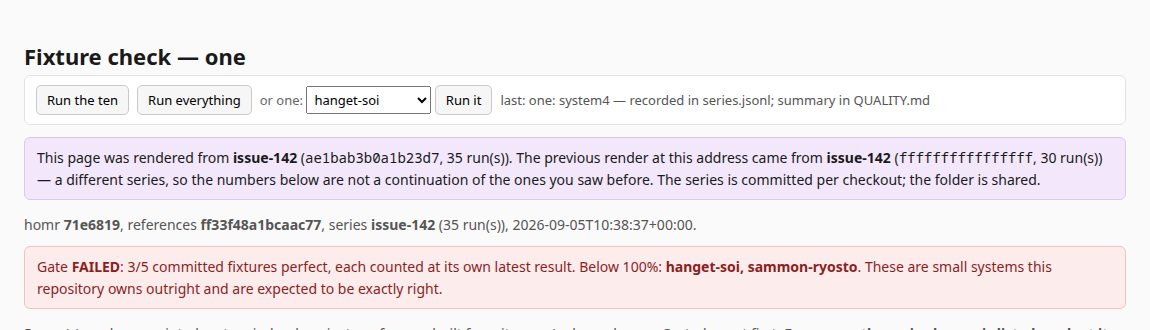
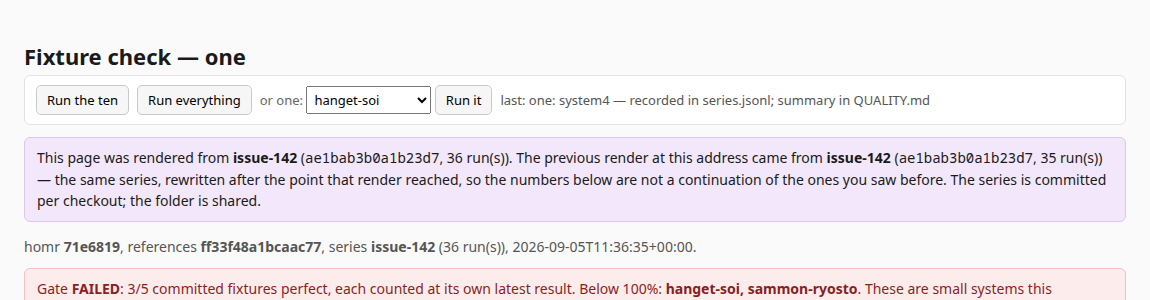
Compare the whole prefix, which is what a prefix check is
I called it a prefix check and then compared one run: the one at the previous
render's final position. `[A, B, C]` becoming `[A, X, C, D]` keeps the path,
the first run and the run at that position, so every test passed while the
middle of the history was replaced under a reader.

The marker now holds a hash over every run the render showed, and the next
render hashes the first that many runs it finds. A change anywhere inside
them fails it; an append leaves them untouched and says nothing, which is the
property that makes a banner worth reading at all.

The regression is that exact shape, with the runs written out by hand rather
than timed so `C` really is the same record both times instead of only
usually being one. Checked by sabotage: with the endpoint check put back the
test fails on `assert not series.continues(shown)`, which is the hole.

Verified live as well, both directions -- three consecutive real runs
produce no banner, and a marker whose prefix hash alone disagrees produces
one that says the history was rewritten rather than replaced.

The old endpoint fingerprint stays in the marker, read only when meeting one
written before the prefix was recorded, so an upgrade costs one render of
the weaker check rather than a rewrite nobody can evidence.

diff --git a/fixturecheck/series.py b/fixturecheck/series.py
@@ -417,9 +417,12 @@ def origin(path: Path | None = None) -> dict:
         "series_id": hashlib.sha256(f"{resolved}\0{root}".encode()).hexdigest()[:16],
         "runs": len(found),
         "last_at": found[-1].get("at", "") if found else "",
-        # The last run itself, hashed. `at` is not enough to compare a position
-        # by: it has second resolution, so two runs a moment apart carry the
-        # same stamp and a rewritten tail would slip through looking identical.
+        # **The whole history shown, hashed** — not its last run. `continues`
+        # compares this against the first `runs` runs found next time, which is
+        # what makes it a prefix check rather than an endpoint check.
+        "prefix": prefix_fingerprint(found),
+        # The last run alone, kept only so a marker written by an older version
+        # still means something for one render. Nothing new compares it.
         "last_run": run_fingerprint(found[-1]) if found else "",
     }
 
@@ -428,6 +431,19 @@ def run_fingerprint(run: dict) -> str:
     """One run, as a value — so two runs can be told apart by what they are."""
     return hashlib.sha256(
         json.dumps(run, sort_keys=True).encode()).hexdigest()[:16]
+
+
+def prefix_fingerprint(some: list[dict]) -> str:
+    """A run of history, as one value.
+
+    Every run, in order, canonically — so a change anywhere inside it changes
+    this, and appending after it does not. Fingerprinting only the last run was
+    the defect: `[A, B, C]` and `[A, X, C, D]` share their first run, their path
+    and the run at the older endpoint, so an endpoint check calls them the same
+    history while the middle of it has been replaced under a reader.
+    """
+    return hashlib.sha256(
+        json.dumps(some, sort_keys=True).encode()).hexdigest()[:16]
 
 
 def continues(previous: dict | None, path: Path | None = None) -> bool:
@@ -439,10 +455,15 @@ def continues(previous: dict | None, path: Path | None = None) -> bool:
     by every stable fingerprint, because a fingerprint that noticed would also
     change on every ordinary append.
 
-    So the question is asked as a **prefix**: the run the last render saw at its
-    own final position must still be that run. If it is not, the record was
-    rewritten under the same name, and the numbers at this address are not a
-    continuation of the ones before them however alike the labels look.
+    So the question is asked as a **prefix**, and it has to be the whole prefix.
+    Checking the run at the older endpoint is not the same thing and misses the
+    ordinary shape of a rewrite: `[A, B, C]` against `[A, X, C, D]` agrees on
+    the path, the first run and the run at that endpoint, and disagrees about
+    what happened in between. So every run the last render showed is hashed
+    together, and all of them must still be there, in order, unchanged.
+
+    An append leaves them untouched and says nothing, which is the property that
+    makes a banner worth reading.
     """
     if not previous:
         return True
@@ -454,12 +475,15 @@ def continues(previous: dict | None, path: Path | None = None) -> bool:
     here = runs(path)
     if len(here) < seen:
         return False        # shorter than what was already shown: rewritten
-    was = previous.get("last_run")
-    if not was:
-        # An older marker, written before runs were fingerprinted. Fall back to
-        # the timestamp rather than declaring a rewrite nobody can evidence.
-        return here[seen - 1].get("at", "") == previous.get("last_at", "")
-    return run_fingerprint(here[seen - 1]) == was
+    was = previous.get("prefix")
+    if was:
+        return prefix_fingerprint(here[:seen]) == was
+    # Markers written before the whole prefix was recorded. One render of the
+    # weaker check rather than a rewrite nobody can evidence; the next marker
+    # carries the prefix and this is never reached again.
+    if previous.get("last_run"):
+        return run_fingerprint(here[seen - 1]) == previous["last_run"]
+    return here[seen - 1].get("at", "") == previous.get("last_at", "")
 
 
 def identity(run: dict) -> tuple:

diff --git a/tests/test_fixturecheck_series.py b/tests/test_fixturecheck_series.py
@@ -716,6 +716,64 @@ def test_a_history_rewritten_after_the_last_render_is_seen(tmp_path, monkeypatch
     assert "rewritten after the point" in said
 
 
+def _line(path, name, at):
+    """One run written straight in, so the histories in a test are exact."""
+    return series.append(
+        {"at": at, "harness": "fixturecheck", "tier": "one", "homr": name,
+         "references": "r", "committed": ["a"],
+         "cases": {"a": {"outcome": series.READ, "perfect": True}},
+         "headline": {"right": 1, "judged": 1, "percent": 100.0}},
+        path)
+
+
+def test_a_run_changed_in_the_middle_of_the_shown_history_is_seen(tmp_path, monkeypatch):
+    """`[A, B, C]` against `[A, X, C, D]` — the shape an endpoint check misses.
+
+    Same path, same first run, and the run at the old endpoint is still `C`, so
+    every identity that is stable across appends agrees and so does a
+    fingerprint of the last run. What changed is `B`, in the middle of what a
+    reader was already shown. The check has to be over the whole prefix or it is
+    not a prefix check, whatever it is called.
+
+    The runs are written out by hand rather than timed, so `C` really is the
+    same record both times instead of only usually being one.
+    """
+    from fixturecheck import report
+
+    monkeypatch.setattr(report, "OUT", tmp_path / "report")
+    report.OUT.mkdir()
+    checkout = tmp_path / "homr" / "fixturecheck"
+    checkout.mkdir(parents=True)
+    path = checkout / "series.jsonl"
+    monkeypatch.setattr(series, "SERIES", path)
+
+    _line(path, "A", "2026-09-01T09:00:00+00:00")
+    opening = path.read_text()
+    _line(path, "B", "2026-09-02T09:00:00+00:00")
+    _line(path, "C", "2026-09-03T09:00:00+00:00")
+
+    shown = series.origin()
+    assert shown["runs"] == 3
+    assert report._series_change(shown) == ""          # [A, B, C] is what was shown
+
+    # Another history: same opening, a different middle, the *same* run at the
+    # old endpoint, and one more after it.
+    path.write_text(opening)
+    _line(path, "X", "2026-09-02T09:00:00+00:00")
+    _line(path, "C", "2026-09-03T09:00:00+00:00")
+    _line(path, "D", "2026-09-04T09:00:00+00:00")
+
+    here = series.runs(path)
+    assert len(here) == 4
+    assert here[1]["homr"] == "X"                      # the middle was replaced
+    # Everything a weaker check compares still agrees:
+    assert series.origin()["series_id"] == shown["series_id"]      # path + root
+    assert series.run_fingerprint(here[2]) == shown["last_run"]    # the endpoint
+    # ...and the history is still not the one that was shown.
+    assert not series.continues(shown)
+    assert "rewritten after the point" in report._series_change(series.origin())
+
+
 def test_an_ordinary_append_says_nothing(tmp_path, monkeypatch):
     """It has to, or every run cries wolf and the banner stops meaning anything."""
     from fixturecheck import report

diff --git a/fixturecheck/README.md b/fixturecheck/README.md
@@ -209,10 +209,16 @@ ordinary run would cry wolf.
 
 An id alone still cannot see one thing — the same path and the same first run,
 with the history rewritten after the point the last render reached. So that is
-asked as a **prefix**: the marker keeps the last run it saw, hashed, and the
-next render checks that run is still at that position. `at` is not enough to
-compare a position by, since it has second resolution and two runs a moment
-apart carry the same stamp.
+asked as a **prefix**, and it is the whole prefix: the marker keeps a hash over
+every run the render showed, and the next render hashes the first that many runs
+it finds and compares.
+
+It has to be all of them. Hashing the run at the older endpoint was tried and
+misses the ordinary shape of a rewrite — `[A, B, C]` against `[A, X, C, D]`
+agrees on the path, the first run and the run at that endpoint, and disagrees
+about what happened in between. And `at` alone is not enough to compare even one
+position by, since it has second resolution and two runs a moment apart carry
+the same stamp.
 
 A render that fails either check says so at the top, naming which of the two it
 was. Rendering repeatedly from the same series is the ordinary case and says
